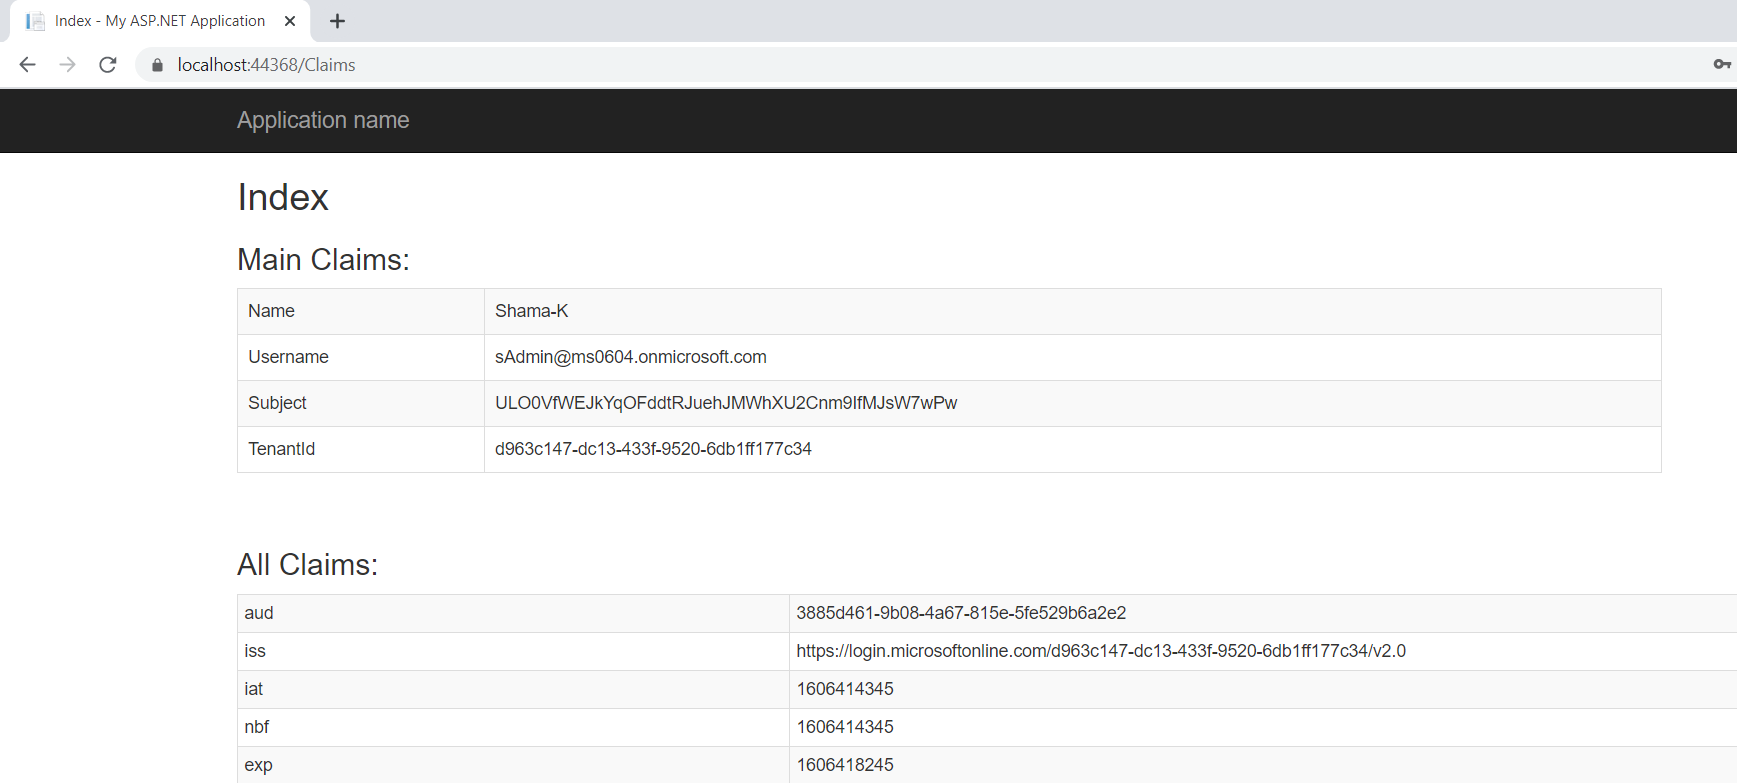
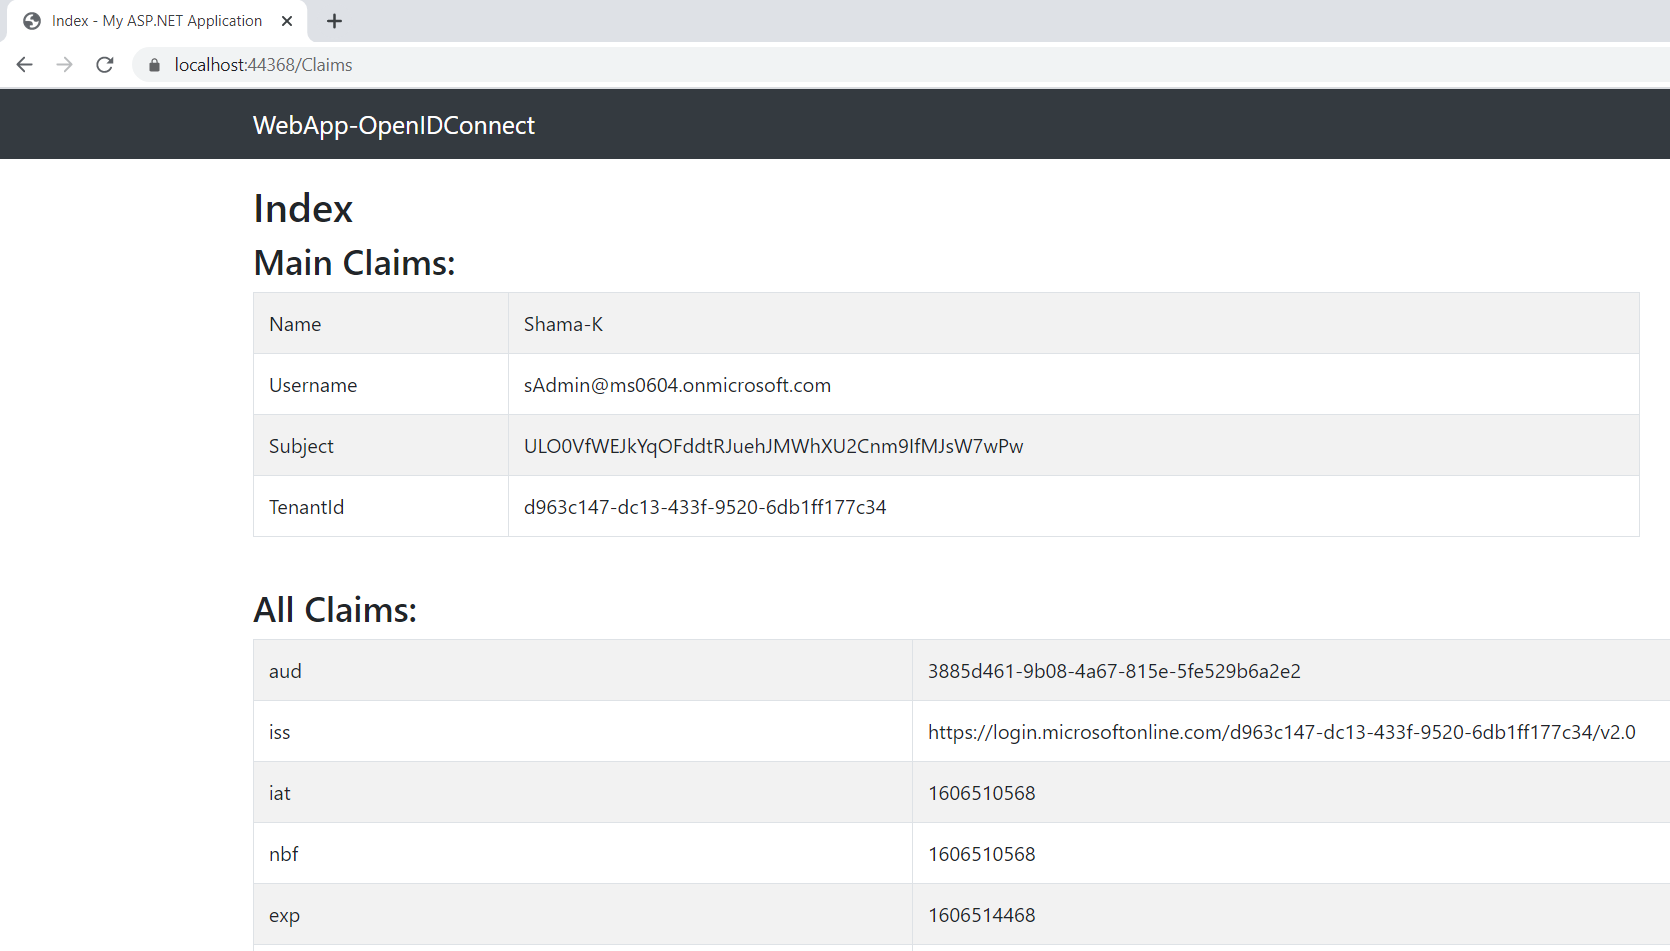
Updated AppName and code as per review

diff --git a/AppModelv2-WebApp-OpenIDConnect-DotNet/Startup.cs b/AppModelv2-WebApp-OpenIDConnect-DotNet/Startup.cs
@@ -48,13 +48,6 @@ namespace AppModelv2_WebApp_OpenIDConnect_DotNet
                 Scope = OpenIdConnectScope.OpenIdProfile,
                 // ResponseType is set to request the id_token - which contains basic information about the signed-in user
                 ResponseType = OpenIdConnectResponseType.IdToken,
-                // ValidateIssuer set to false to allow personal and work accounts from any organization to sign in to your application
-                // To only allow users from a single organizations, set ValidateIssuer to true and 'tenant' setting in web.config to the tenant name
-                // To allow users from only a list of specific organizations, set ValidateIssuer to true and use ValidIssuers parameter 
-                TokenValidationParameters = new TokenValidationParameters()
-                {
-                    ValidateIssuer = false
-                },
                 // OpenIdConnectAuthenticationNotifications configures OWIN to send notification of failed authentications to OnAuthenticationFailed method
                 Notifications = new OpenIdConnectAuthenticationNotifications
                 {

diff --git a/README.md b/README.md
@@ -97,12 +97,12 @@ As a first step you'll need to:
 1. Sign in to the [Azure portal](https://portal.azure.com).
 1. If your account is present in more than one Azure AD tenant, select your profile at the top right corner in the menu on top of the page, and then **switch directory** to change your portal session to the desired Azure AD tenant.
 
-### Register the web app (Quickstart-AspNetWebAppCallingGraph)
+### Register the web app (Quickstart-AspNetWebApp)
 
 1. Navigate to the [Azure portal](https://portal.azure.com) and select the **Azure AD** service.
 1. Select the **App Registrations** blade on the left, then select **New registration**.
 1. In the **Register an application page** that appears, enter your application's registration information:
-   - In the **Name** section, enter a meaningful application name that will be displayed to users of the app, for example `Quickstart-AspNetWebAppCallingGraph`.
+   - In the **Name** section, enter a meaningful application name that will be displayed to users of the app, for example `Quickstart-AspNetWebApp`.
    - Under **Supported account types**, select **Accounts in this organizational directory only**.
    - In the **Redirect URI (optional)** section, select **Web** in the combo-box and enter the following redirect URI: `https://localhost:44368/`.
      > Note that there are more than one redirect URIs used in this sample. You'll need to add them from the **Authentication** tab later after the app has been created successfully.
@@ -115,15 +115,15 @@ As a first step you'll need to:
    - In the **Logout URL** section, set it to `https://localhost:44368/signout-oidc`.
 1. Select **Save** to save your changes.
 
-#### Configure the web app (Quickstart-AspNetWebAppCallingGraph) to use your app registration
+#### Configure the web app (Quickstart-AspNetWebApp) to use your app registration
 
 Open the project in your IDE (like Visual Studio or Visual Studio Code) to configure the code.
 
 > In the steps below, "ClientID" is the same as "Application ID" or "AppId".
 
 1. Open the `AppModelv2-WebApp-OpenIDConnect-DotNet\Web.config` file.
-1. Find the key `ClientId` and replace the existing value with the application ID (clientId) of the `Quickstart-AspNetWebAppCallingGraph` application copied from the Azure portal.
-1. Find the key `Tenant` and replace the existing value with your Azure AD tenant ID.																					 
+1. Find the key `ClientId` and replace the existing value with the application ID (clientId) of the `Quickstart-AspNetWebApp` application copied from the Azure portal.
+1. Find the key `Tenant` and replace the existing value with your Azure AD tenant ID.
 
 ## Running the sample
 
@@ -140,7 +140,7 @@ Open the project in your IDE (like Visual Studio or Visual Studio Code) to confi
 
 ![UserClaims](./ReadmeFiles/UserClaims.png)
 
-> :information_source: Did the sample not work for you as expected? Then please reach out to us using the [GitHub Issues](../../../../issues) page.
+> :information_source: Did the sample not work for you as expected? Then please reach out to us using the [GitHub Issues](../../issues) page.
 
 ## We'd love your feedback!
 
@@ -163,10 +163,6 @@ Were we successful in addressing your learning objective? [Do consider taking a 
                 PostLogoutRedirectUri = redirectUri,
                 Scope = OpenIdConnectScope.OpenIdProfile,
                 ResponseType = OpenIdConnectResponseType.IdToken,
-                TokenValidationParameters = new TokenValidationParameters()
-                {
-                    ValidateIssuer = false
-                },
                 Notifications = new OpenIdConnectAuthenticationNotifications
                 {
                     AuthenticationFailed = OnAuthenticationFailed
